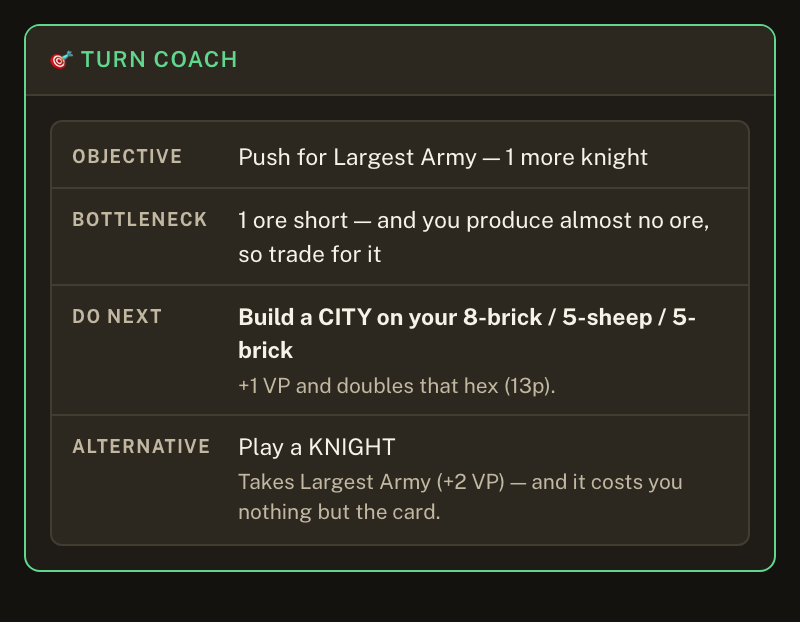
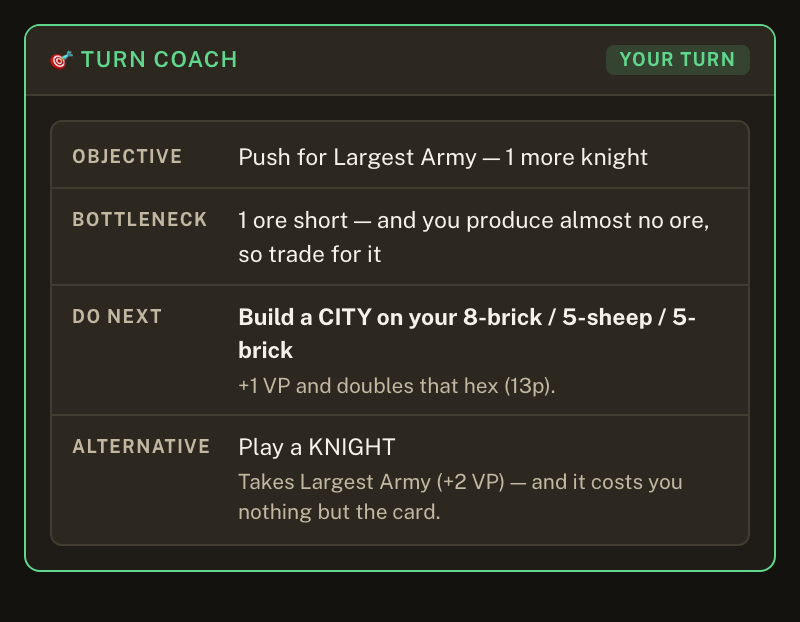
Keep the Turn Coach visible on the opponent's turn
It hid itself whenever currentTurnColor wasn't mine, so the panel was gone
for roughly half of every game — long enough to forget it was there, which
is exactly what happened.

Now it renders continuously through the main game: dimmed, with a badge
flipping between YOUR TURN and OPPONENT'S TURN. Setup is unaffected; the
placement advisor still owns that phase.

The plan is recomputed live rather than frozen. The position genuinely
moves while you wait — they can rob or monopolise your hand, build, or
take an award off you — so a snapshot from your last turn would quietly
go stale. Asserted the plan is identical across both turn states, so the
only difference is presentation.

Robber advice stays suppressed while waiting, since a robber move is only
ever owed on your own turn.

7 new assertions (43 total). Full suite green: live VP 255/255, board
pieces 510/510, 0 exceptions, 0 score leaks, opening advisor 0 drift.

Changed region(s): [[0.75, 0.0611, 0.9375, 0.1222]]

diff --git a/tools/winpath_logic.js b/tools/winpath_logic.js
@@ -59,7 +59,13 @@ function setup(opts) {
       corners[String(i)] = { id:String(i), res:[{res:'ore',dice:6},{res:'wheat',dice:9}], port:null };
       neighbors[String(i)] = [];
     }
-    state.board = { geo: { corners: corners, neighbors: neighbors, weights:{wood:1,brick:1,sheep:1,wheat:1,ore:1},
+    // cornerIds + hexByCoord are what computeRobberAdvice walks; without them the robber block
+    // throws rather than returning advice.
+    var hexByCoord = { 'h1': { res:'ore', dice:6 }, 'h2': { res:'wheat', dice:9 } };
+    Object.keys(corners).forEach(function(k){ corners[k].tri = ['h1','h2']; });
+    state.board = { geo: { corners: corners, cornerIds: Object.keys(corners), neighbors: neighbors,
+                           hexByCoord: hexByCoord,
+                           weights:{wood:1,brick:1,sheep:1,wheat:1,ore:1},
                            resPips:{wood:4,brick:4,sheep:4,wheat:4,ore:4}, ports:{} } };
     state.cornerOwner = o.cornerOwner || { '1': { owner:'1', buildingType:1 } };
     state.vp = o.vp || {};
@@ -202,6 +208,35 @@ check('equal knights does not take Largest Army', r.F.laNeed === 1, `laNeed=${r.
 r = setup({ vp: { '1': vp(3, 2), '2': vp(3, 2, 0, 0, 1) }, roadLen: { '1': 6, '2': 6 },
             awards: { la: {}, lr: { '2': { hasLongestRoad: true } } } });
 check('equal road length does not take Longest Road', r.F.lrNeed === 1, `lrNeed=${r.F.lrNeed}`);
+
+console.log('\n── turn visibility (the coach must not vanish on the opponent\'s turn) ──');
+// Drive computeTurnCoach directly, flipping only whose turn it is.
+function coachAt(turnColor, opts) {
+  setup(opts || { vp: { '1': vp(3, 2), '2': vp(3, 2) }, hand: { wood:1, brick:1, sheep:1, wheat:2, ore:3 } });
+  sandbox.__turn = turnColor;
+  return run(`(function(){ state.currentTurnColor = __turn; var a = computeTurnCoach();
+    return { active: a.active, myTurn: a.myTurn, hasPlan: !!a.plan, robber: !!a.robber,
+             objective: a.plan && a.plan.objective, doNext: a.plan && a.plan.primary && a.plan.primary.do }; })()`);
+}
+const mine = coachAt('1');
+const theirs = coachAt('2');
+check('active on MY turn', mine.active && mine.myTurn === true);
+check('still ACTIVE on the opponent\'s turn', theirs.active === true, `active=${theirs.active}`);
+check('  …flagged as not my turn', theirs.myTurn === false, `myTurn=${theirs.myTurn}`);
+check('  …and still carries a full plan', theirs.hasPlan && !!theirs.objective && !!theirs.doNext,
+  JSON.stringify(theirs).slice(0, 120));
+check('plan is identical on both turns (recomputed, not frozen)',
+  mine.objective === theirs.objective && mine.doNext === theirs.doNext,
+  `mine="${mine.doNext}" theirs="${theirs.doNext}"`);
+
+// A robber move is only ever owed on your own turn — it must never show while waiting.
+sandbox.__t = 1;
+const robberMine = run(`(function(){ state.currentTurnColor = state.myColor; state.robberPending = true;
+  var a = computeTurnCoach(); return !!a.robber; })()`);
+const robberTheirs = run(`(function(){ state.currentTurnColor = state.oppColor; state.robberPending = true;
+  var a = computeTurnCoach(); return !!a.robber; })()`);
+check('robber advice shows on my turn when owed', robberMine === true);
+check('robber advice suppressed on the opponent\'s turn', robberTheirs === false);
 
 console.log('\n── shape of the output ──');
 r = setup({ vp: { '1': vp(3, 2), '2': vp(3, 2) }, hand: { wood:1, brick:1, sheep:1, wheat:1, ore:0 } });

diff --git a/sidepanel/sidepanel.js b/sidepanel/sidepanel.js
@@ -1042,14 +1042,21 @@ function computeTurnCoach() {
   if (!state.gameActive || !state.myColor) return { active: false };
   const setupDone = state.rolls.length > 0 || Object.keys(state.cornerOwner).length >= 4;
   if (!setupDone) return { active: false };                        // setup advisor owns this phase
-  if (state.currentTurnColor && state.currentTurnColor !== state.myColor) return { active: false };
 
-  const h = player(state.myColor).hand;
-  const total = handSum(h);
-  const deckLeft = state.dev.bankRemaining == null ? 99 : state.dev.bankRemaining;
+  // THE COACH STAYS VISIBLE ON THE OPPONENT'S TURN. It used to hide itself, which meant the panel
+  // vanished for roughly half the game — long enough to forget it was there at all.
+  // The plan is RECOMPUTED live rather than frozen, because the position genuinely moves while you
+  // wait: they can rob or monopolise your hand, build, or take an award off you. A frozen snapshot
+  // would quietly go stale. What you read is always current; it just isn't actionable yet.
+  const myTurn = !state.currentTurnColor || state.currentTurnColor === state.myColor;
+
   const F = winPathFacts();
   const plan = winPathPlan(F);
-  return { active: true, plan, facts: F, robber: state.robberPending ? computeRobberAdvice() : null };
+  return {
+    active: true, myTurn, plan, facts: F,
+    // A robber move is only ever owed on your own turn.
+    robber: (myTurn && state.robberPending) ? computeRobberAdvice() : null,
+  };
 }
 
 // Build the ranked candidate actions, then pick by TIER. Each candidate carries the VP it certainly
@@ -2121,13 +2128,22 @@ function renderAll() {
   renderFooter();
 }
 
-// Turn Coach — visible on your turn during the main game (hidden in setup / opp's turn).
+// Turn Coach — visible for the whole main game. Hidden only during setup, where the placement
+// advisor owns the panel. On the opponent's turn it stays up, dimmed, with the plan still live.
 function renderTurnCoach() {
   const sec = document.getElementById('turnCoach');
   if (!sec) return;
   const a = computeTurnCoach();
   if (!a.active) { sec.style.display = 'none'; return; }
   sec.style.display = 'block';
+  sec.classList.toggle('coach-waiting', !a.myTurn);
+
+  const status = document.getElementById('turnCoachStatus');
+  if (status) {
+    status.className = 'tc-pill ' + (a.myTurn ? 'tc-now' : 'tc-wait');
+    status.textContent = a.myTurn ? 'Your turn' : 'Opponent’s turn';
+  }
+
   const body = document.getElementById('turnCoachBody');
   if (!body) return;
 

diff --git a/sidepanel/index.html b/sidepanel/index.html
@@ -237,6 +237,22 @@
   .coach-act b { display: block; color: var(--text); font-size: 12px; margin-bottom: 2px; }
   .coach-act span { font-size: 11px; color: var(--text-muted); line-height: 1.45; }
 
+  /* ── Turn Coach shell + turn-state pill ──
+     The coach is green and prominent on your turn, muted on the opponent's. It stays on screen
+     either way: hiding it for half the game is how you forget it exists. */
+  #turnCoach { border-color: var(--green); }
+  #turnCoach .section-header { color: var(--green); }
+  #turnCoach.coach-waiting { border-color: var(--border); }
+  #turnCoach.coach-waiting .section-header { color: var(--text-muted); }
+  #turnCoach.coach-waiting .section-body { opacity: 0.68; }
+  .tc-pill {
+    font-family: var(--sans); font-size: 9px; font-weight: 700; letter-spacing: 0.07em;
+    text-transform: uppercase; padding: 3px 7px; border-radius: 4px; line-height: 1;
+  }
+  .tc-now  { background: rgba(97,215,142,0.16); color: var(--green); }
+  /* --surface2 would be invisible here: it's the header's own background. */
+  .tc-wait { background: var(--bg); color: var(--text-muted); border: 1px solid var(--border); padding: 2px 6px; }
+
   /* ── Win-Path panel (inside Turn Coach) ──
      Four labelled rows, no scores. The opponent's position drives the advice but is never printed —
      Colonist already shows both scores, so repeating them is noise. */
@@ -385,9 +401,9 @@
       </div>
     </div>
 
-    <!-- Turn Coach — visible on your turn during the main game -->
-    <div class="section" id="turnCoach" style="display:none;border-color:var(--green)">
-      <div class="section-header" style="color:var(--green)">🎯 Turn Coach</div>
+    <!-- Turn Coach — stays up for the whole main game; dims on the opponent's turn -->
+    <div class="section" id="turnCoach" style="display:none">
+      <div class="section-header">🎯 Turn Coach<span id="turnCoachStatus" class="tc-pill tc-now">Your turn</span></div>
       <div class="section-body" id="turnCoachBody"></div>
     </div>
 

diff --git a/tools/make_screenshots.js b/tools/make_screenshots.js
@@ -148,6 +148,11 @@ const SCENE = `<script>
   }
 
   if (scene === 'coach')    only([byId('turnCoach') || document.getElementById('turnCoach')]);
+  if (scene === 'coach-wait') {
+    state.currentTurnColor = '2';                 // opponent to act
+    if (typeof renderTurnCoach === 'function') renderTurnCoach();
+    only([document.getElementById('turnCoach')]);
+  }
   if (scene === 'opponent') only([byId('opponentResources')]);
   if (scene === 'odds')   { only([diceSec]); setDiceView('odds'); }
   if (scene === 'dist')   { only([diceSec]); setDiceView('dist'); }

diff --git a/CONVERSATION.md b/CONVERSATION.md
@@ -4,7 +4,7 @@ A full record of the sessions building out the **Catan Companion** Chrome extens
 (MV3) for real-time strategy on colonist.io 1v1 games. Chronological, with the key
 requests, discoveries, decisions, code changes, and validations.
 
-**Current version:** `1.62` (see manifest.json). **Scope:** 1v1 only. No
+**Current version:** `1.63` (see manifest.json). **Scope:** 1v1 only. No
 player-to-player trading (bank/port trades only). **`CLAUDE.md` was deleted** — this
 file is the single source of truth for a fresh session.
 
@@ -686,6 +686,7 @@ nudges; (4) the long-term question of a self-play simulator vs continued rule-ba
 | 1.23 | **Raw games now preserved** for the future Turn Coach learner — `saveGameRaw` writes each completed game's full messages to `Catan saved games/raw/game-<id>.json` (schema `catan-game-raw/v1`) alongside the small record (staggered 300ms so the onDeterminingFilename FIFO doesn't race). From raw we can replay per-turn advisor-suggestion-vs-my-action with ANY coach version. NOTE: the existing 55 records have NO raw (captures were converted+deleted earlier) → Turn Coach corpus starts fresh from now. Verified robber-on-a-7 advice intact. **55 games.** |
 | docs | **`CATAN_1V1_PRIMER.md` rewritten as v2 (2026-09-16).** Brought up to date with everything since the v1.40-era original, and — importantly — it now **explicitly corrects the claims it used to repeat** rather than quietly editing them: the cities/army/dev/road correlations and the "<2 cities → 14% win" line were **concession artifacts** (39% contamination), and the "56%→40% decline" was **not significant** (p=0.10; seat-mix artifact). New/changed content: the **13-VP building ceiling** (5 settlements + 4 cities = 13 < 15, so dev VP or an award is structurally mandatory — the sharpest argument for the ore/wheat/sheep tilt); real win composition from **decided games only** (97% held ≥1 VP card, 85% 3-4 cities, 70% largest army, 67% longest road); the retired hard archetypes replaced by the **continuous board lean** (11/18 neutral, 1.5σ half-width) with interpolated weight endpoints; the **v1.50 architecture** (weights price production only, pair-level soft terms, engine **gate** with STRONG/WEAK/FRAGILE/**MISSING** and scale-aware allowances); **starting-card tempo** (only the 2nd settlement grants cards → pair order matters); why the pair-opportunity lean is **disabled**; the seat split as the **only** robustly surviving claim (Fisher p=0.023); and the power limit (singular design matrix, ~2,200 games to detect +3pp → weight tuning is unfalsifiable at n≈111). Ends with six reading rules for any future analysis. |
 | repo | **Project published to GitHub — `github.com/anirvdh/catan-companion` (public).** Initialised git at v1.62 and pushed 43 files on `main`. **Deliberately excluded and gitignored:** all game data (the 171 saved records + raw captures live in `~/Downloads/Catan saved games/`, are ~60 MB, and the raw ones are irreplaceable — see the never-delete-raw rule), `.claude/settings.local.json` (machine-specific paths), `__pycache__`, and `tools/timeline_cache.json` (a regenerable derived cache). `tools/setup_fingerprint.json` IS committed — it is the regression baseline for the opening advisor, not an output. Three local-path lines in this changelog that leaked machine usernames were genericized **before** the first commit, so they never entered git history. Commit authored as `anirvdh` via GitHub's noreply email using repo-LOCAL git config, leaving the global identity untouched for other projects. **Added three documentation files to make the changelog discipline a rule rather than a habit:** `README.md` (overview, install, verification commands, doc index), `CONTRIBUTING.md` (the full workflow — verify against real captures → record in CONVERSATION.md with before/after numbers → bump the correct version constant → commit; plus the non-negotiables and the protocol-traps table), and `CLAUDE.md` (loaded automatically by Claude Code in this repo, encoding the same rules so future sessions follow them without being told). Standard set explicitly: "fixed a bug in city tracking" is not acceptable; "live city count matched truth in 8/60 games, now 342/342" is. |
+| 1.63 | **Turn Coach stays visible on the opponent's turn.** User report: "it disappears when it's not my turn, then I forget it is there." The guard `if (currentTurnColor !== myColor) return { active:false }` hid the whole panel for roughly half of every game. Removed it; the coach now renders continuously through the main game, dimmed (`.coach-waiting` → muted border, grey header, body at 0.68 opacity) with a turn badge flipping between **YOUR TURN** (green) and **OPPONENT'S TURN** (outlined). Setup is unaffected — the placement advisor still owns that phase and the coach stays silent until 4 corners are placed or the first roll lands (verified 0 leaks in 60 captures). **The plan is RECOMPUTED live, not frozen**, which is the design call worth recording: the position genuinely moves while you wait — the opponent can rob or monopolise your hand, build, or take an award off you — so a snapshot from your last turn would quietly go stale. Asserted that the plan is byte-identical across both turn states, i.e. the only difference is presentation. **Robber advice is suppressed while waiting** (a robber move is only ever owed on your own turn) and asserted both ways. No refresh plumbing needed: `processStateObject` already returns `changed` on a `currentTurnPlayerColor` transition, which calls `scheduleRender()`. Added **7 new assertions** to `tools/winpath_logic.js` (43 total, was 36) covering active-on-both-turns, the `myTurn` flag, plan identity, and robber suppression; the fake board in that harness gained `cornerIds` + `hexByCoord` so `computeRobberAdvice` can actually run. New screenshot scene `coach-wait` documents the dimmed state. Also fixed the waiting badge being invisible — it was `var(--surface2)` on a `--surface2` header. Full suite green: live VP **255/255**, board pieces **510/510**, 0 exceptions, 0 score leaks, opening advisor 0 drift. Scorer untouched (`v1.50`/`ee784b36`); replay/schema untouched. |
 | 1.62 | **The city-upgrade diff trap — fixed in the LIVE path (it bit twice).** User reported the Turn Coach saying "Build your engine toward your first city" long after they had built a city. Root cause: a settlement→city upgrade arrives carrying only `buildingType: 2` with **`owner` omitted** (the owner didn't change, so the diff doesn't repeat it), and `processStateObject` required an owner before recording the corner — so **every city upgrade was silently dropped from live state**. Measured on 60 replayed captures: live city count matched end-game truth in only **8/60** games. **This is the exact bug fixed in `reviewAnalyze` back in v1.4x and documented in the primer as a known trap — the live path never got the fix.** Three symptoms, all user-visible: (1) the objective read "toward your first city" for the entire game; (2) `bestCityTarget` reads `myBuildings(1)`, which still contained upgraded corners, so the advisor offered to **build a city on a corner that was already a city**; (3) `myResProd` weighted cities ×1 instead of ×2, under-reporting production and skewing both the bottleneck and the engine-tier ranking. Fix resolves `owner` AND `buildingType` from the previous known corner state whenever the diff omits them (mirroring the reviewAnalyze fix). **Now 342/342 player-slots match end-game piece counts**, and "toward your first city" drops from effectively every engine-tier objective to **35% of sampled objectives** (the genuine early game), with the rest correctly progressing to production growth, the Largest Army push, and closing out. Added a **permanent assertion** to `tools/winpath_check.js` (live settlements+cities == end-game counts) plus an e2e guard (objective never says "first city" when a city exists — 0 violations in 1,484 calls), so this cannot regress a third time. Replay/schema untouched (reviewAnalyze was already correct); scorer untouched (`v1.50`/`ee784b36`). |
 | ui | **Dice sections merged into one content switcher.** "Dice Distribution" and "Next Roll Odds" became a single section with a segmented control (Roll odds · Dice distribution). Dropped the `deck N/36 · reshuffle in N` readout (the reshuffle LOGIC is untouched — `MIN_RESHUFFLE` still drives the balanced-dice prediction, it's just no longer displayed). The roll count moved into the shared header and shows **only** when Dice distribution is selected. Underlying charts (`oddsChart`, `sevenRisk`, `diceChart`) and their render functions are unchanged — they just live in two swapped panes. Verified in-browser against the real markup/CSS: pane visibility, active-pill state and header meta all toggle correctly. |
 | 1.61 | **Win-Path panel — the Turn Coach becomes score-aware.** Replaced the fixed priority ladder (city>settlement>dev>road), which gave identical advice at 3 VP and 14 VP, with a tiered engine reading the live score of BOTH players: `win` / `win-maybe` / `defend` / `closing` / `engine` / `fallback`. **Stage 1 (live state):** wired five fields that were already arriving in the stream but parsed only by the offline reviewer — `victoryPointsState`, `mechanicLargestArmyState`, `mechanicLongestRoadState` (which also carries each player's **road chain length**, so the Longest Road race needs NO graph search), `mechanicRobberState`, `bankTradeRatiosState` — plus per-colour knight counts from log type-20 (`state.dev.played` is deck-wide and unusable for the LA race) and my own dev-card enums (revealed for my colour; the opponent's are all enum 10). **Every one of these arrives as a PARTIAL DIFF and must be merged, never replaced** — naive last-value tracking reads a player truly on 15 VP as **3**; merged cumulatively, my live VP matches end-game truth **165/165** and the opponent's matches truth-minus-their-hidden-VP-cards **165/165** (their VP cards are the only thing we cannot see). **Stage 2 (engine):** candidates carry the VP they certainly add, so "does this win?" is a comparison not a special case. Encodes: a city is a **net +1** (it replaces a settlement); **playing a knight already in hand is FREE** and can win outright via Largest Army (evaluated first — the most-missed winning move); awards must be **exceeded, not matched**; taking an award off the opponent is a **4-VP swing**; Longest Road is only chased within 3 segments; bank trades honour live 2:1/3:1 port ratios and spend only genuine spares. **UI shows four rows — OBJECTIVE / BOTTLENECK / DO NEXT / ALTERNATIVE (+ CHANGES IF) — and NO scores**: my VP, the opponent's VP, their hidden-VP estimate and their unplayed-card count all drive the logic and none are printed, because Colonist already shows them. **TWO BUGS FOUND:** (1) **VP categories 3 and 4 were documented backwards** — 3 is Largest Army, 4 is Longest Road; both are worth 2 VP so every total and every arithmetic check was unaffected, which is why it survived; caught by cross-checking against the award mechanic states, 330/330 both ways. (2) **`reviewAnalyze` REPLACED the award mechanic states instead of merging**, and only ~7% of longest-road frames carry `hasLongestRoad`, so **`awards.lrMe` was wrong in 46/165 saved records** (now 0/165) — any past analysis using it is suspect. Corrected per-award stats: **Largest Army 81.2% vs 39.5%, Longest Road 84.8% vs 37.5%**, and LR is common (46/86 decided), not rare as previously reported. **Verification:** 36 decision-logic assertions, live-state check on all 165 captures, 1477 advisor calls on real board geometry with **0 exceptions and 0 score leaks**, and a fingerprinted setup-advisor regression (60/60, 0 drift). Replay bumped to 1.61. **Scorer, weights, board lean and engine thresholds untouched** (`v1.50` / `ee784b36`). New tools: `winpath_check.js`, `winpath_logic.js`, `winpath_e2e.js`, `setup_regression.js`. |

diff --git a/README.md b/README.md
@@ -22,10 +22,10 @@ The second part is why this repo contains as much analysis as code. Several conf
 
 | | |
 |---|---|
-| Extension version | **1.62** |
+| Extension version | **1.63** |
 | Placement scorer | `v1.50`, config hash `ee784b36` — **frozen** for the current collection run |
-| Games recorded | 171, all passing integrity checks |
-| Decided games (someone reached 15) | 90 — *not enough to tune weights on; see [Why the scorer is frozen](#why-the-scorer-is-frozen)* |
+| Games recorded | 255, all passing integrity checks |
+| Decided games (someone reached 15) | **136** — approaching the ~150 threshold for revisiting weights; see [Why the scorer is frozen](#why-the-scorer-is-frozen) |
 
 > The empirical tables below come from the **165-game audit snapshot** (86 decided), which is the
 > last point where every figure was independently re-derived and cross-checked. Collection has
@@ -188,6 +188,14 @@ Takes over after setup. Earlier versions ran a fixed ladder — city > settlemen
 
 In that position the player holds two unplayed knights and is one short of Largest Army, so the coach surfaces it as the alternative and prices it: **+2 VP, and it costs nothing but the card.** The city is still the primary because it's the larger immediate gain — but the knight is the move most players forget they already own.
 
+**It stays on screen for the whole game.** It used to hide itself on the opponent's turn, which meant it was gone for roughly half of every game — long enough to forget it existed at all. Now it dims and flips a badge instead:
+
+<p align="center">
+  <img src="docs/img/coach-wait.png" alt="Turn Coach dimmed while waiting on the opponent" width="380">
+</p>
+
+The plan is **recomputed live rather than frozen**, because the position genuinely moves while you wait — the opponent can rob or monopolise your hand, build, or take an award off you. A snapshot from your last turn would quietly go stale. Robber advice is the one thing suppressed while waiting, since a robber move is only ever owed on your own turn.
+
 Candidates are evaluated by the VP they *certainly* add now, so "does this win?" is a comparison rather than a special case. Tiers:
 
 | Tier | Fires when |
@@ -271,7 +279,7 @@ Average winner: **9.9 VP from buildings, 5.1 from cards and awards.**
 
 ### Why the scorer is frozen
 
-90 decided games is not enough to tune weights on, and the honest tests say so:
+136 decided games is still short of what weight tuning needs, and the honest tests say so:
 
 - Weights derived from the data performed **worse** out-of-sample than the hand-set priors (64% vs 68%).
 - Opening regret is **not lower in wins** — winners show *higher* mean regret in 3 of 4 seat/pick cells. That's a research lead, not a tuning signal.
@@ -280,7 +288,7 @@ Average winner: **9.9 VP from buildings, 5.1 from cards and awards.**
 
 So the target is **intermediate metrics** — first-city timing, blocked income, dev-card pace — which converge in tens of games instead of thousands. First-city timing already looks real: the early-city half of decided games wins **77.8%** vs **46.3%**, and the direction holds inside every MMR stratum, including when the recorded player was the underdog.
 
-**~150 decided games before revisiting weights. Currently 90.**
+**~150 decided games before revisiting weights. Currently 136** — close enough that this is worth re-running soon.
 
 ---
 
